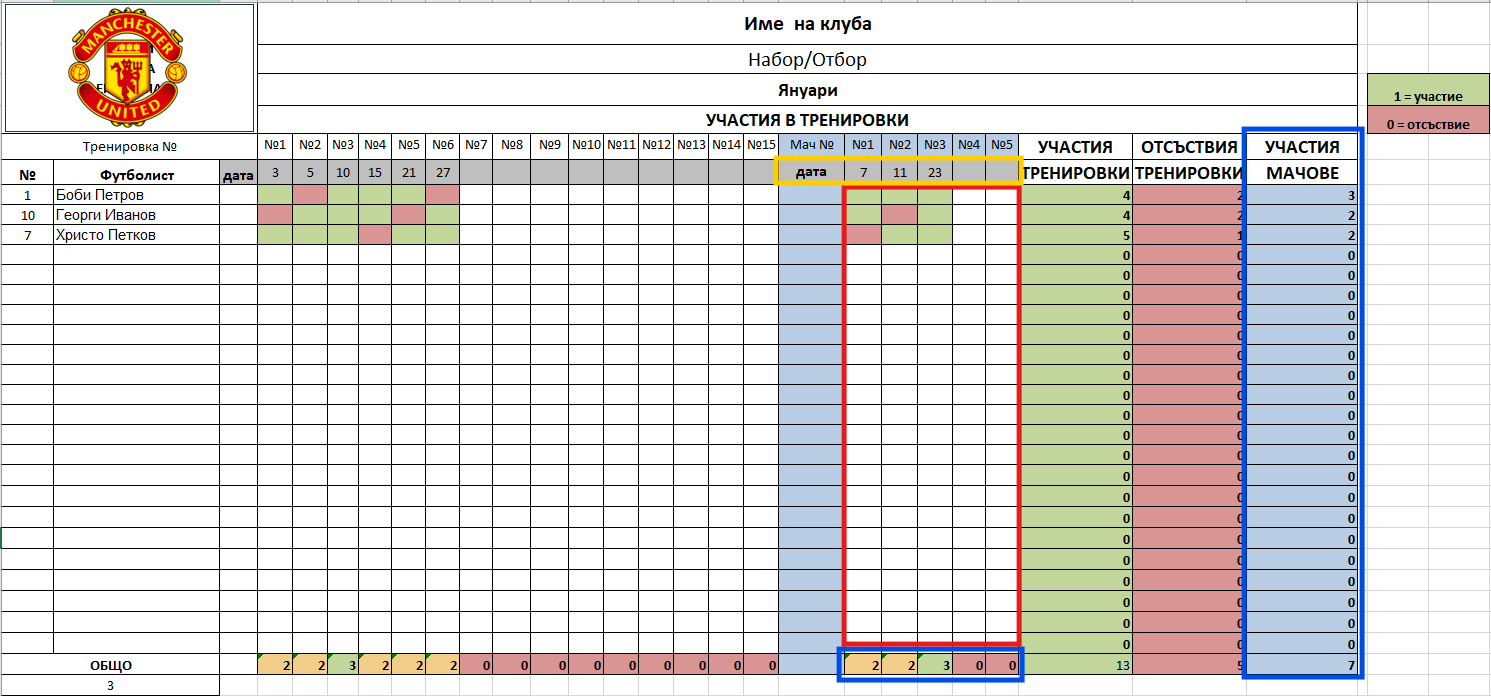
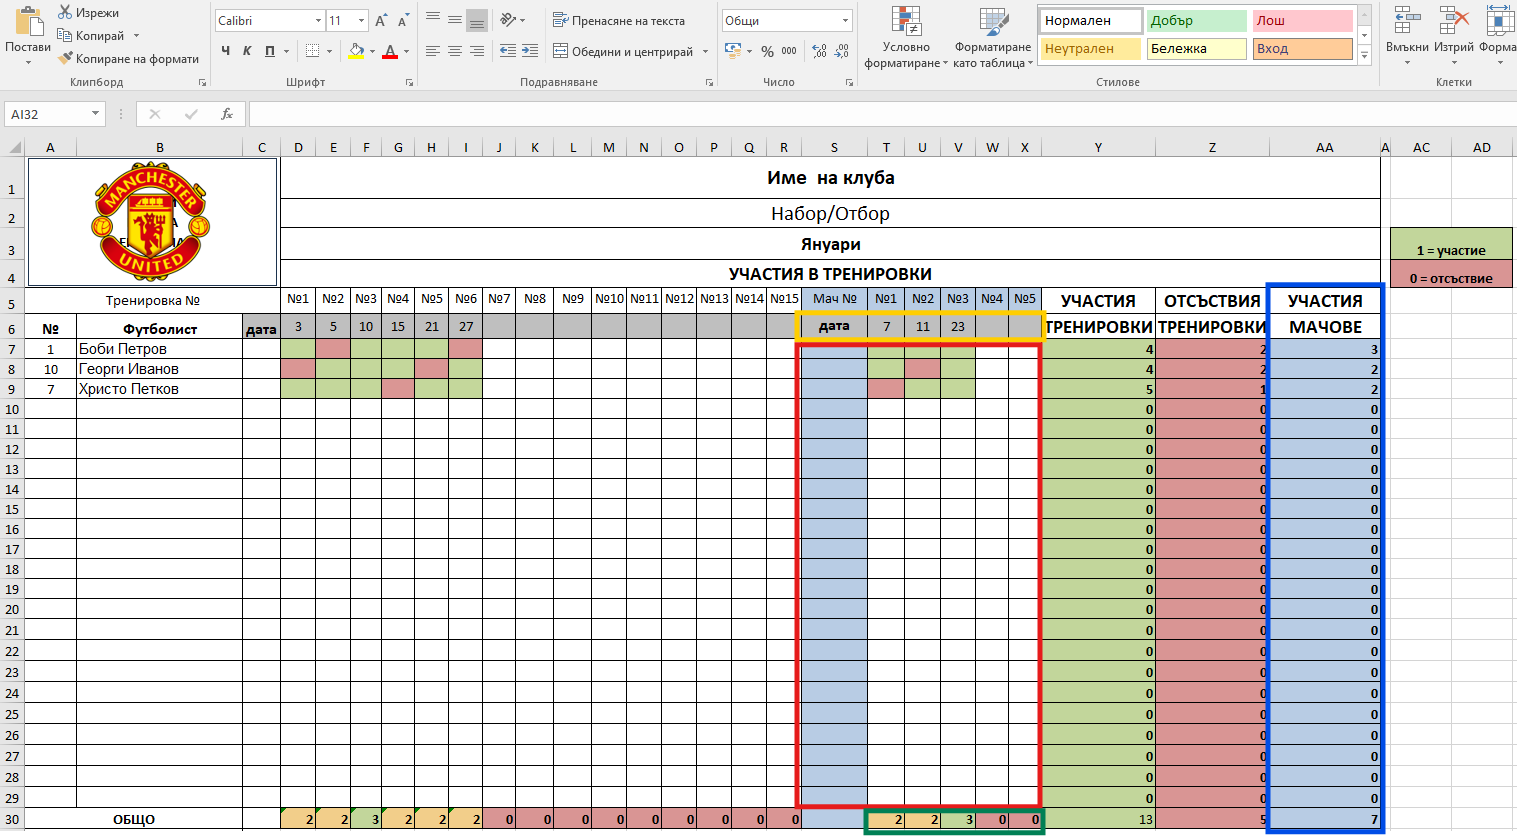
updated instructions.html

diff --git a/football_schedule/templates/reports/instructions.html b/football_schedule/templates/reports/instructions.html
@@ -62,24 +62,32 @@
                 <h4 class="pb-2"><strong>2. Сваляне на Шаблон</strong></h4>
                 <p>
                     За да създадеш графичен репорт с данни за тренировки и мачове на твоите футболисти трябва първо да
-                    свалиш нужния шаблон. Можеш да го направи от бутона "Свали Шаблон" на страницата за генериране на
-                    репорт. След натискане на бутона шаблонът ще започне да сваля, а когато е свален можеш да го намериш
-                    в папка ти "Downloads".
+                    свалиш нужния шаблон:
                 </p>
+                <ul>
+                    <li>Можеш да го направи от бутона "Свали Шаблон" на страницата за генериране на репорт.</li>
+                    <li>След натискане на бутона шаблонът ще започне да сваля, а когато е свален можеш да го намериш в папка ти "Downloads".</li>
+                </ul>
+
                 <img class="download-template-image" src="{% static 'images/download-template.png' %}">
                 <p class="mt-3">
-                    Шаблонът е в excel формат и се попълва много лесно, както ще разбереш от следващите стъпки. След
-                    като си го свалил може да го отвориш и да попълниш заглавните редове с информацията за твоя отбор,
-                    както и да добавиш емблема и след това да я преместниш и уголемиш/намалиш на правилното място.
+                    Шаблонът е в excel формат и се попълва много лесно, както ще разбереш от следващите стъпки: 
                 </p>
+                <ul>
+                    <li>След като си го свалил може да го отвориш и да попълниш заглавните редове с информацията за твоя отбор </li>
+                    <li>Добави емблема и след това да я преместни и уголеми/намали на правилното място. </li>
+                </ul>
+                
             </section>
 
             <section class="mt-5 ml-3 " id="download-template">
                 <h4 class="pb-2"><strong>3. Попълване на играчи в шаблон</strong></h4>
                 <img class="download-template-image" src="{% static 'images/populate-players.png' %}">
+                <p>
+                    След като си свалил шаблона и си сложил клубна емблема (маркираното в жълто на изображението), можеш да започнеш да попълваш информацията за твоите
+                    футболисти:
+                </p>
                 <ul>
-                    <li>След като си свалил шаблона и си сложил клубна емблема (маркираното в жълто на изображението), можеш да започнеш да попълваш информацията за твоите
-                    футболисти. </li>
                     <li>В колоната с първи ред "Футболист" (маркирана в червено на изображението) трябва да попълниш имената на футболистите. </li>
                     <li>В колоната с първи ред "№" (маркирана в зелено на изображението) можеш да попълниш номерата от фланелките на футболистите или да я оставиш подредена от 1 до 23.Това е и максималния брой на състезатели, които можеш да добавиш. </li>
                     <li>Под имената на футболистите имаш ред "Общо", а под него се показва броя на футболисти, които си добавил в шаблона. </li>
@@ -89,26 +97,62 @@
             <section class="mt-5 ml-3 " id="download-template">
                 <h4 class="pb-2"><strong>4. Попълване на тренировки в шаблон</strong></h4>
                 <img class="download-template-image" src="{% static 'images/populate-absence.png' %}">
+                <p>
+                    За да попълниш информацията за присъствия и отсъствия на тренировки на твоите футболисти трябва да попълниш шаблона по следния начин:
+                </p>
+                
                 <ul>
-                    <li>Попълни датите на тренировките за съотвения месец в сивият ред след "дата" (маркираното в жълто на изображението).
+                    <li>Попълни датите на тренировките за съотвения месец в сивия ред след "дата" (маркираното в жълто на изображението).
                          Не е нужно да попълваш и цифрата съответстваща на месеца, а само датата. Месецът ще се генерира автоматично при създаването на репорт. </li>
                     <li>В реда срещу всеки футболист под датата на тренировки (маркирана в червено на изображението) трябва да попълниш приъствие или отсъствие, 
                         като използваш цифрата 1 за присъствие и 0 за отсъствие. Таблицата автоматично ще се оцвети в зелено за присъствие и в черно за отсъствие. </li>
-                    <li>В реда по присъствия и отсъствия (маркирано в зелено на изображението) ще се покаже общият брой на присъстващи футболист за тази тренировка. </li>
-                    <li>В колоните "Участия" и "Стсъствия" (маркирани в синьо на изображението) ще видим общият брой на присъствия и отсъствия на футболиста. </li>
+                    <li>В реда под присъствия и отсъствия (маркирано в зелено на изображението) ще се покаже общият брой на присъстващи футболист за тази тренировка. </li>
+                    <li>В колоните "Участия" и "Отсъствия" (маркирани в синьо на изображението) ще видим общият брой на присъствия и отсъствия на футболиста. </li>
                 </ul>
             </section>
 
             <section class="ml-3 " id="instructions">
                 <h4 class="pb-2"><strong>5. Попълване на мачове в шаблон</strong></h4>
                 <img class="download-template-image" src="{% static 'images/populate-matches.png' %}">
+
+                <p>
+                    За да попълниш информацията за присъствия и отсъствия на мачове на твоите футболисти трябва да попълниш шаблона по следния начин:
+                </p>
+                <ul>
+                    <li>Попълни датите на мачовете за съотвения месец в синия ред след "дата" (маркираното в жълто на изображението).
+                         Не е нужно да попълваш и цифрата съответстваща на месеца, а само датата. Месецът ще се генерира автоматично при създаването на репорт. </li>
+                    <li>В реда срещу всеки футболист под датата на мачовете (маркирана в червено на изображението) трябва да попълниш приъствие или отсъствие, 
+                        като използваш цифрата 1 за присъствие и 0 за отсъствие. Таблицата автоматично ще се оцвети в зелено за присъствие и в черно за отсъствие. </li>
+                    <li>В реда под присъствия и отсъствия (маркирано в зелено на изображението) ще се покаже общият брой на присъстващи футболист за този мач. </li>
+                    <li>В колоната "Участия Мачове" (маркирана в синьо на изображението) ще видим общият брой на присъствия и отсъствия на футболиста. </li>
+                </ul>
             </section>
-            
-            
-            
+
+            <section class="ml-3 " id="instructions">
+                <h4 class="pb-2"><strong>6. Генериране на репорт</strong></h4>
+                <img class="download-template-image" src="{% static 'images/generate-report-1.png' %}">
+                <p>
+                    За да успееш да генерираш репорт с информация за посещението на тренировки и мачове на твоите футболисти следвай тези стъпки:
+                </p>
+                <ul>
+                    <li>Под "Качи попълнен файл:" избери бутона "Choose File"(маркиран в жълто на изображението)</li>
+                    <li>След като натиснеш бутона ще се отвори прозорец, в който трябва да намериш и избереш попълнения шаблон, който си свалил и попълнил.(маркирана в червено на изображението) </li>
+                    <li>Когато си избрал файл името му ще се изпише отдясно на бутона "Choose File" (маркираното в синьо на изображението) </li>
+                    <li>След като си избрал файла натисни бутона "Генерирай репорт" (маркиран в зелено на изображението) и ще бъдеш прехвърлен на друга страница, която ще съдържа генерирания репорт.</li>
+                </ul>
+                  <img class="download-template-image" src="{% static 'images/generate-report-2.png' %}">
+
+                <p>
+                    След като си прехвърлен на новата страница ще видиш:
+                </p>
+                <ul>
+                    <li>Напдпис "Файлът се обработва и свалянето ще започне скоро" (маркиран в жълто на изображението), което значи че репортът се генерира. </li>
+                    <li>Щом репортът се генерира, той ще започне автоматично сваляне (маркираното в червено на изображението).  </li>
+                    <li>Ако желаеш да генерираш нов репорт, използвай бутона "Генерирай нов репорт" (маркиран в зелено на изображението).</li>
+                </ul>
+            </section> 
         </section>
-    
-        
+
     
     </div>
 {% endblock %}
